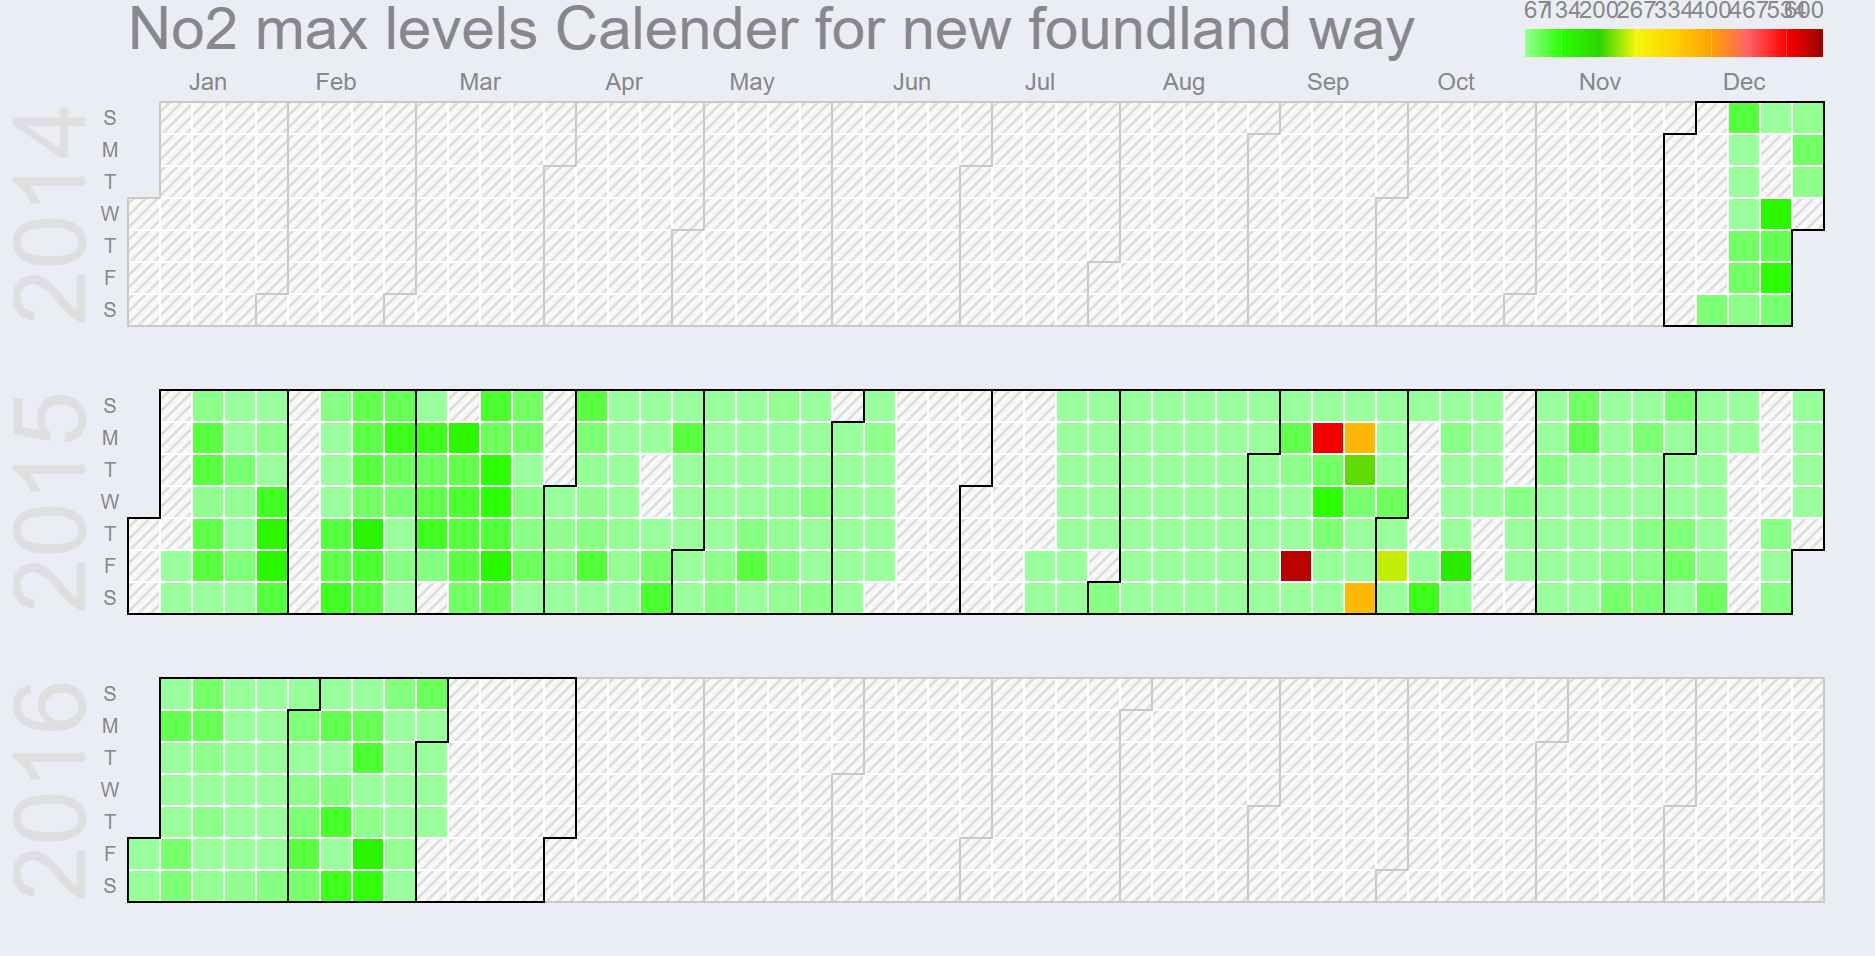
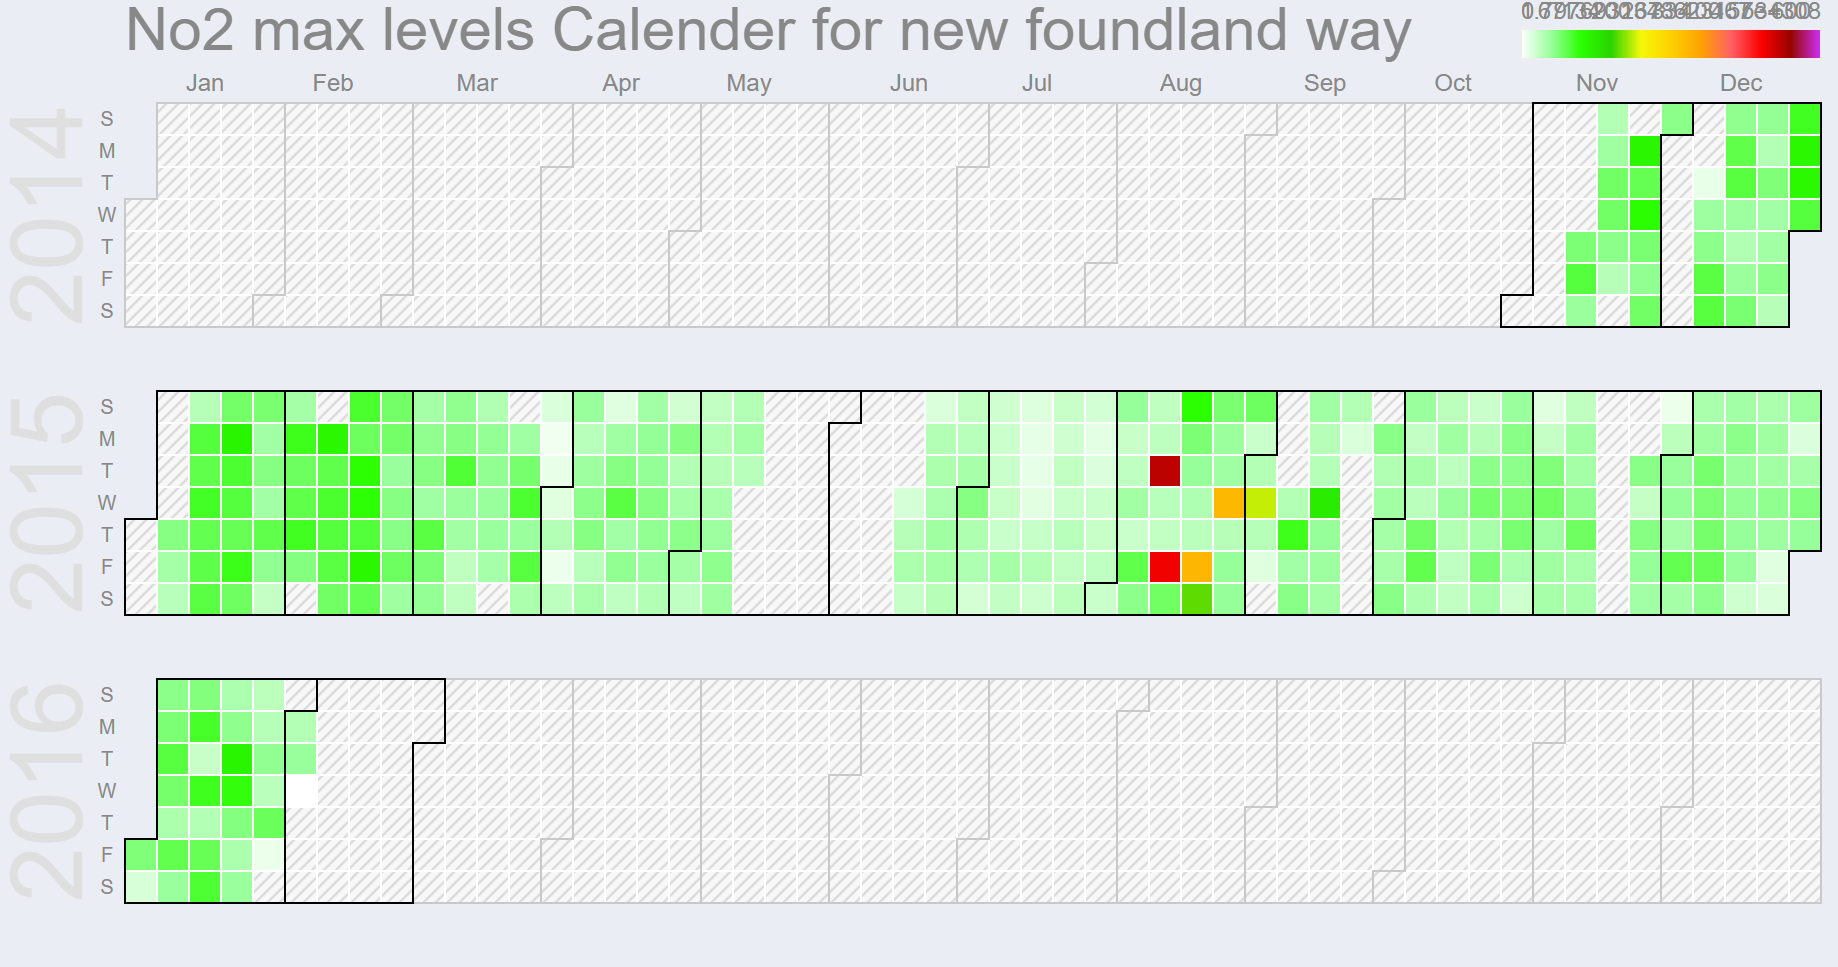
minor changes to calenderchart to set correct month

diff --git a/script.js b/script.js
@@ -498,7 +498,7 @@ $(document).ready(function() {
 				day = station[i - 1][1].slice(0, 2)
 				month = station[i - 1][1].slice(3, 5)
 				attr = [];
-				attr.push(new Date(year, month, day));
+				attr.push(new Date(year, parseInt(month) - 1, day));
 				attr.push(station[i - 1][4]);
 				calenderData.push(attr);
 			}
@@ -522,7 +522,8 @@ $(document).ready(function() {
 		   var options = {
 			 title: "No2 max levels Calender for " + choice,
 			 height: 700,
-			 colorAxis : {values: [67, 134,200,267,334,400,467,534,600], colors: ['#99FF9C', '#2AFF00' , '#2BD400', '#F5F708', '#FDD101', '#FEA104', '#FF6066', '#FC0100', '#950400']},
+			 legend: 'right',
+			 colorAxis : {values: [0, 67 , 134 ,200 ,267 ,334 ,400 ,467 ,534 ,600, Number.MAX_VALUE], colors: ['white', '#99FF9C', '#2AFF00' , '#2BD400', '#F5F708', '#FDD101', '#FEA104', '#FF6066', '#FC0100', '#950400', '#CE30FF']},
 		   };
 
 		   chart.draw(dataTable, options);
